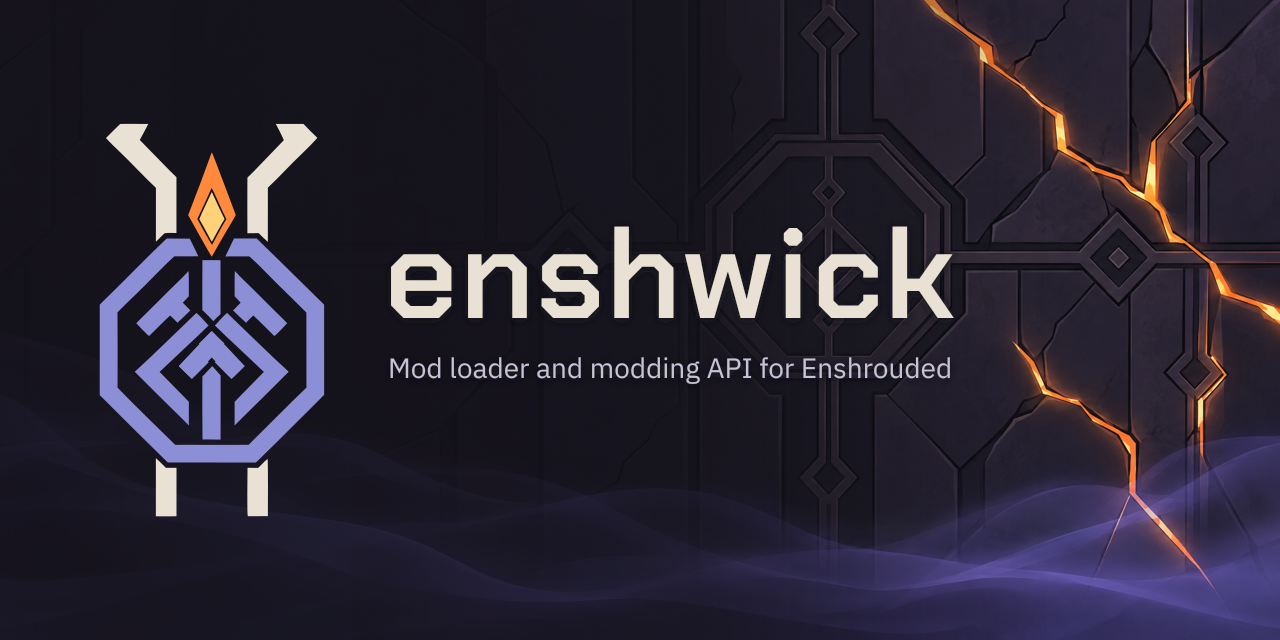
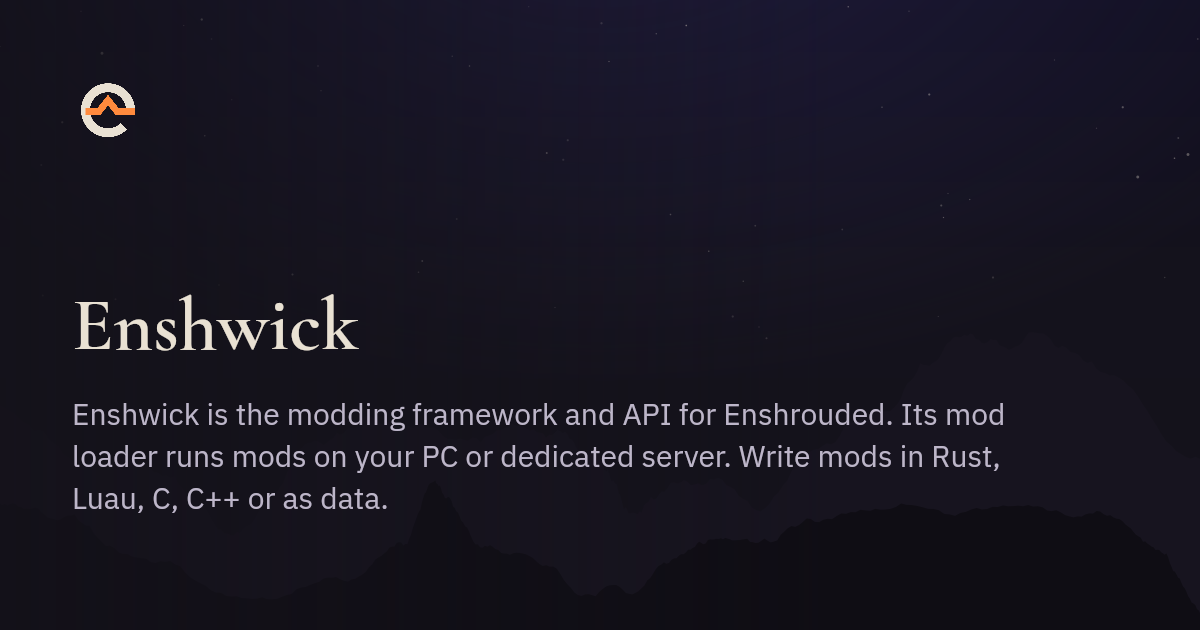
docs(profile): present enshwick in the site's words and look (#171)
## Documentation

- Rewrote the organization profile in the site's words: what Enshwick
is, who it is for (players, server admins, mod makers), the alpha state,
the download, the docs and how to report a bug or ask for an API.
- Replaced the profile banner with the site's card for the platform,
which the site's build draws.
- Added a README that says what the repository holds and where the
profile's words come from.
- Said "mod maker" in the idea form, as the site does.

## Chores

- Set the organization's display name to "Enshwick" and its description
to the site's description, in the organization's settings.
- Set this repository's description to "Organization profile, community
files and Renovate preset of Enshwick, the modding framework and API for
Enshrouded." and its topics to enshwick, enshrouded,
community-health-files and renovate-config, in the repository's
settings.

Changed region(s): [[0.0617, 0.0, 1.0, 1.0], [0.7092, 0.2714, 0.74, 0.3016]]

diff --git a/profile/README.md b/profile/README.md
@@ -1,30 +1,90 @@
 <p align="center">
-  <img src="banner.png" alt="enshwick" width="100%">
+  <a href="https://enshwick.com"><img src="banner.png" alt="Enshwick, the modding framework and API for Enshrouded" width="100%"></a>
 </p>
 
-Enshwick is a fast, high-level API platform for writing Enshrouded mods in
-Rust or Luau. For players, it is a mod loader with the mods built on it.
+<!--
+The site is the source of these words, in src/data/texts.json of enshwick/docs:
+the first paragraph is `site.description`; the alpha line `alpha.title` and
+`front.makers.abi`; the lines on game updates, servers, Linux, languages, tools
+and the licence repeat `front.faq.*` and `front.makers.*`; the last line
+`foot.not-affiliated`. banner.png is https://enshwick.com/og/github/enshwick.png,
+which that site's build draws. Change the words there first.
+-->
+
+Enshwick is the modding framework and API for
+[Enshrouded](https://enshrouded.com). Its mod loader runs mods on your PC or
+dedicated server. Write mods in Rust, Luau, C, C++ or as data.
+
+Enshwick is in alpha: version 1.0 is not out yet. Until 1.0, anything may
+change between alphas, so
+[back up your worlds](https://enshwick.com/guides/back-up-saves/) before you
+update.
 
 ## For players
 
-- Install Enshwick once, then add mods to the `mods` folder of the game:
-  [install guide](https://enshwick.com/guides/install/).
-- Our mods and what each one changes are on the
-  [site](https://enshwick.com/).
-- The site also covers updates, servers and what to do when the game does
-  not start.
+- Download `enshwick.zip` from the newest alpha on the
+  [releases page](https://github.com/enshwick/enshwick/releases), then follow
+  the [install guide](https://enshwick.com/guides/install/).
+- [Your first modded game](https://enshwick.com/start/first-modded-game/) shows
+  each step, on Windows, Linux and Steam Deck.
+- [Mods by the Enshwick team](https://enshwick.com/#mods) lists our mods. Each
+  one has a page that says what it changes.
+- After a game update, Enshwick turns off what it cannot find in the new
+  version of the game and names it in chat. Everything else keeps working.
+  [Compatibility](https://enshwick.com/reference/compatibility/) lists the game
+  versions each release runs on.
+
+## For server admins
+
+- Install Enshwick into the server's folder, the one with
+  `enshrouded_server.exe`, as the
+  [install guide](https://enshwick.com/guides/install/) says. Players need the
+  same mods, except the mods that run only on the server:
+  [play on a server](https://enshwick.com/guides/play-on-a-server/).
+- A Linux server runs the Windows server under Wine or Proton:
+  [run a Linux server](https://enshwick.com/guides/run-a-linux-server/) and
+  [run a server in Docker or Kubernetes](https://enshwick.com/guides/run-a-server-in-docker/).
+- Each world has its own mod settings, in files beside its save:
+  [where the files are](https://enshwick.com/reference/where-files-live/).
 
 ## For mod makers
 
-- Start a new mod with `cargo enshwick new`:
-  [getting started](https://enshwick.com/dev/getting-started/).
-- The [developer docs](https://enshwick.com/dev/) explain the API, Luau
-  scripts and data packs.
-- The API reference of the `enshwick` crate is on
-  [docs.rs](https://docs.rs/enshwick).
+- Write a mod in Rust or Luau, or as plain data with no code. C and C++ work
+  through the [C header](https://enshwick.com/dev/mods-in-c/).
+- We made tools to create a mod, put it in the game and test it without
+  starting the game. [Getting started](https://enshwick.com/dev/getting-started/)
+  shows them.
+- The [developer docs](https://enshwick.com/dev/) explain the API, and
+  [API coverage](https://enshwick.com/dev/api-coverage/) shows what it reaches
+  today.
+- [What comes next](https://enshwick.com/aims/) lists the aims, without dates.
 
-## Contact
+## Report a bug or ask for an API
 
-Mail [contact@enshwick.com](mailto:contact@enshwick.com). To report a
-security problem, follow the
-[security policy](https://github.com/enshwick/.github/blob/main/SECURITY.md).
+- [Open an issue in enshwick](https://github.com/enshwick/enshwick/issues/new/choose)
+  for the mod loader or the API: a game update that broke something, an API
+  call your mod needs, or an idea.
+- [Open an issue in mods](https://github.com/enshwick/mods/issues/new/choose)
+  for one of our mods.
+- Ask a question in
+  [Discussions](https://github.com/enshwick/.github/discussions).
+- Report a security problem privately, as the
+  [security policy](https://github.com/enshwick/.github/blob/main/SECURITY.md)
+  says.
+- Pull requests are welcome. The
+  [contributing guide](https://github.com/enshwick/.github/blob/main/CONTRIBUTING.md)
+  explains how they work.
+- Mail [contact@enshwick.com](mailto:contact@enshwick.com).
+
+## Repositories
+
+| Repository | What it holds |
+| --- | --- |
+| [enshwick](https://github.com/enshwick/enshwick) | the framework: the mod loader, the API, the `cargo enshwick` tool and the modding book |
+| [mods](https://github.com/enshwick/mods) | our mods, each released on its own |
+| [docs](https://github.com/enshwick/docs) | the source of [enshwick.com](https://enshwick.com) |
+| [vortex-extension](https://github.com/enshwick/vortex-extension) | the [Vortex](https://www.nexusmods.com/about/vortex/) extension that installs Enshwick and its mods |
+
+Enshwick and our mods are free. Their code is open under the MIT licence.
+
+Not made by or affiliated with Keen Games. Enshrouded is their trademark.

diff --git a/README.md b/README.md
@@ -1,0 +1,15 @@
+# Enshwick on GitHub
+
+The organization profile, community files and Renovate preset of
+[Enshwick](https://enshwick.com), the modding framework and API for Enshrouded.
+
+| Path | What |
+| --- | --- |
+| [`profile/`](profile) | the README that [github.com/enshwick](https://github.com/enshwick) shows, and its banner |
+| [`CONTRIBUTING.md`](CONTRIBUTING.md), [`SUPPORT.md`](SUPPORT.md), [`SECURITY.md`](SECURITY.md) | the community files of every repository that has none of its own |
+| [`.github/ISSUE_TEMPLATE/`](.github/ISSUE_TEMPLATE), [`.github/pull_request_template.md`](.github/pull_request_template.md) | the issue forms and the pull request template of every repository that has none of its own |
+| [`renovate/default.json`](renovate/default.json) | the Renovate preset every repository extends |
+
+The profile repeats the site's words and shows its card for Enshwick; the
+comment at the top of [`profile/README.md`](profile/README.md) names each
+source.
